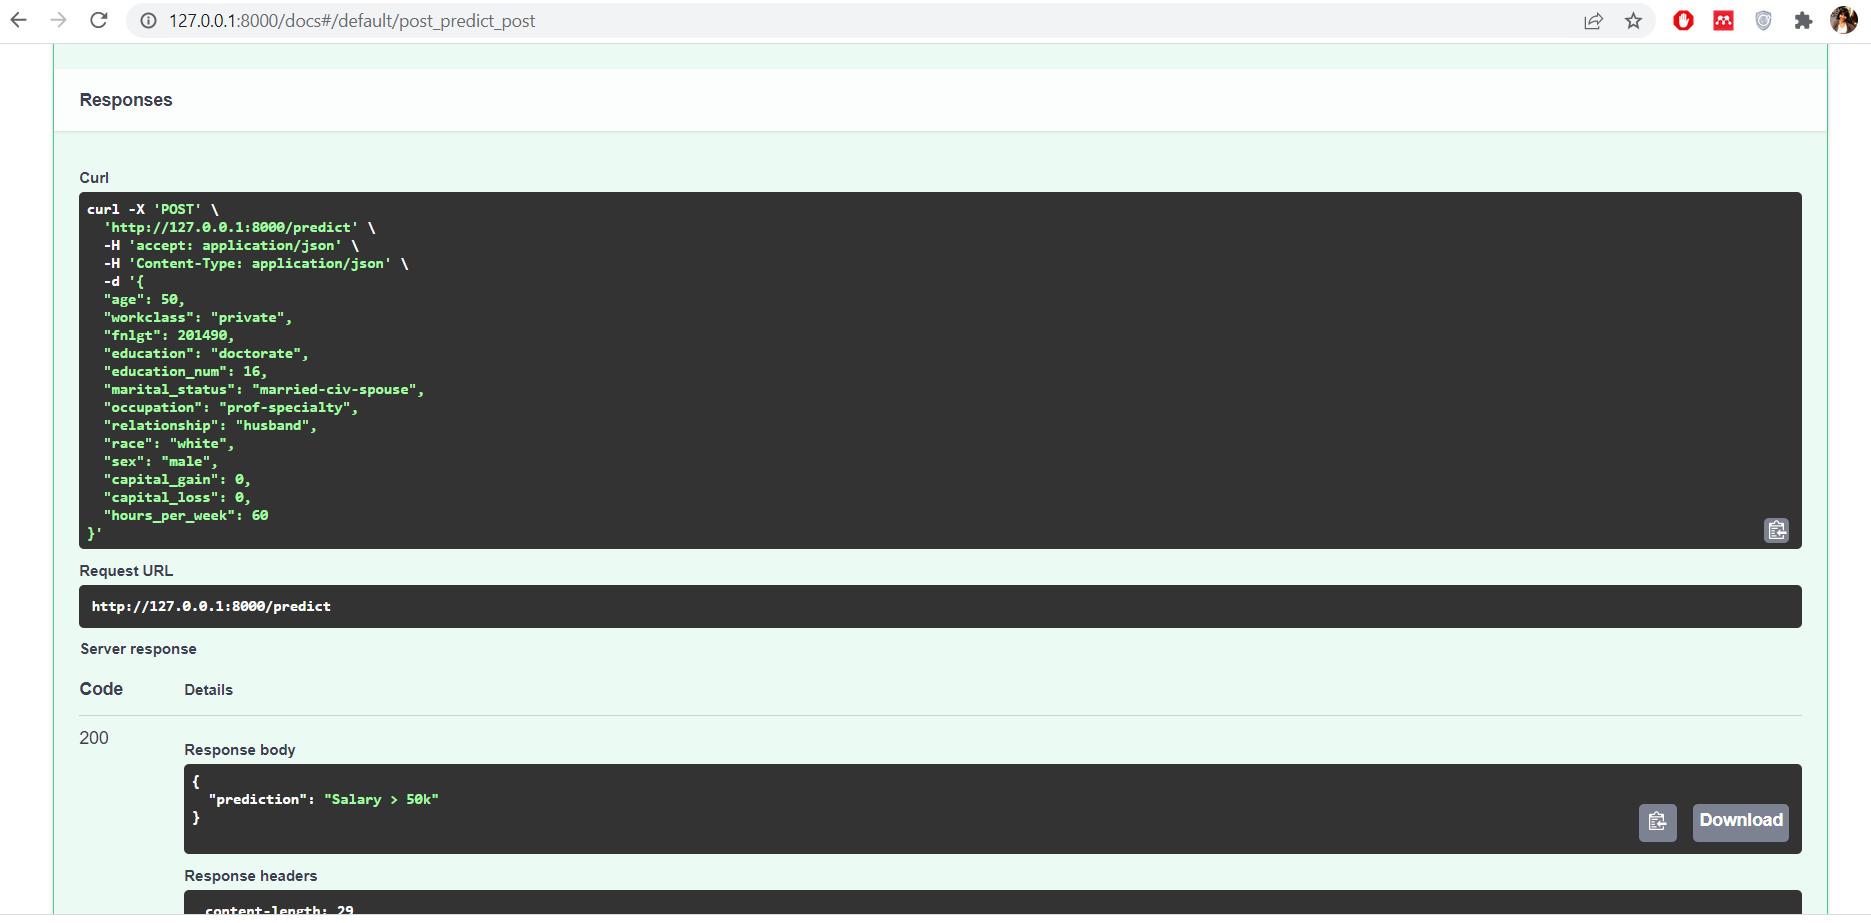
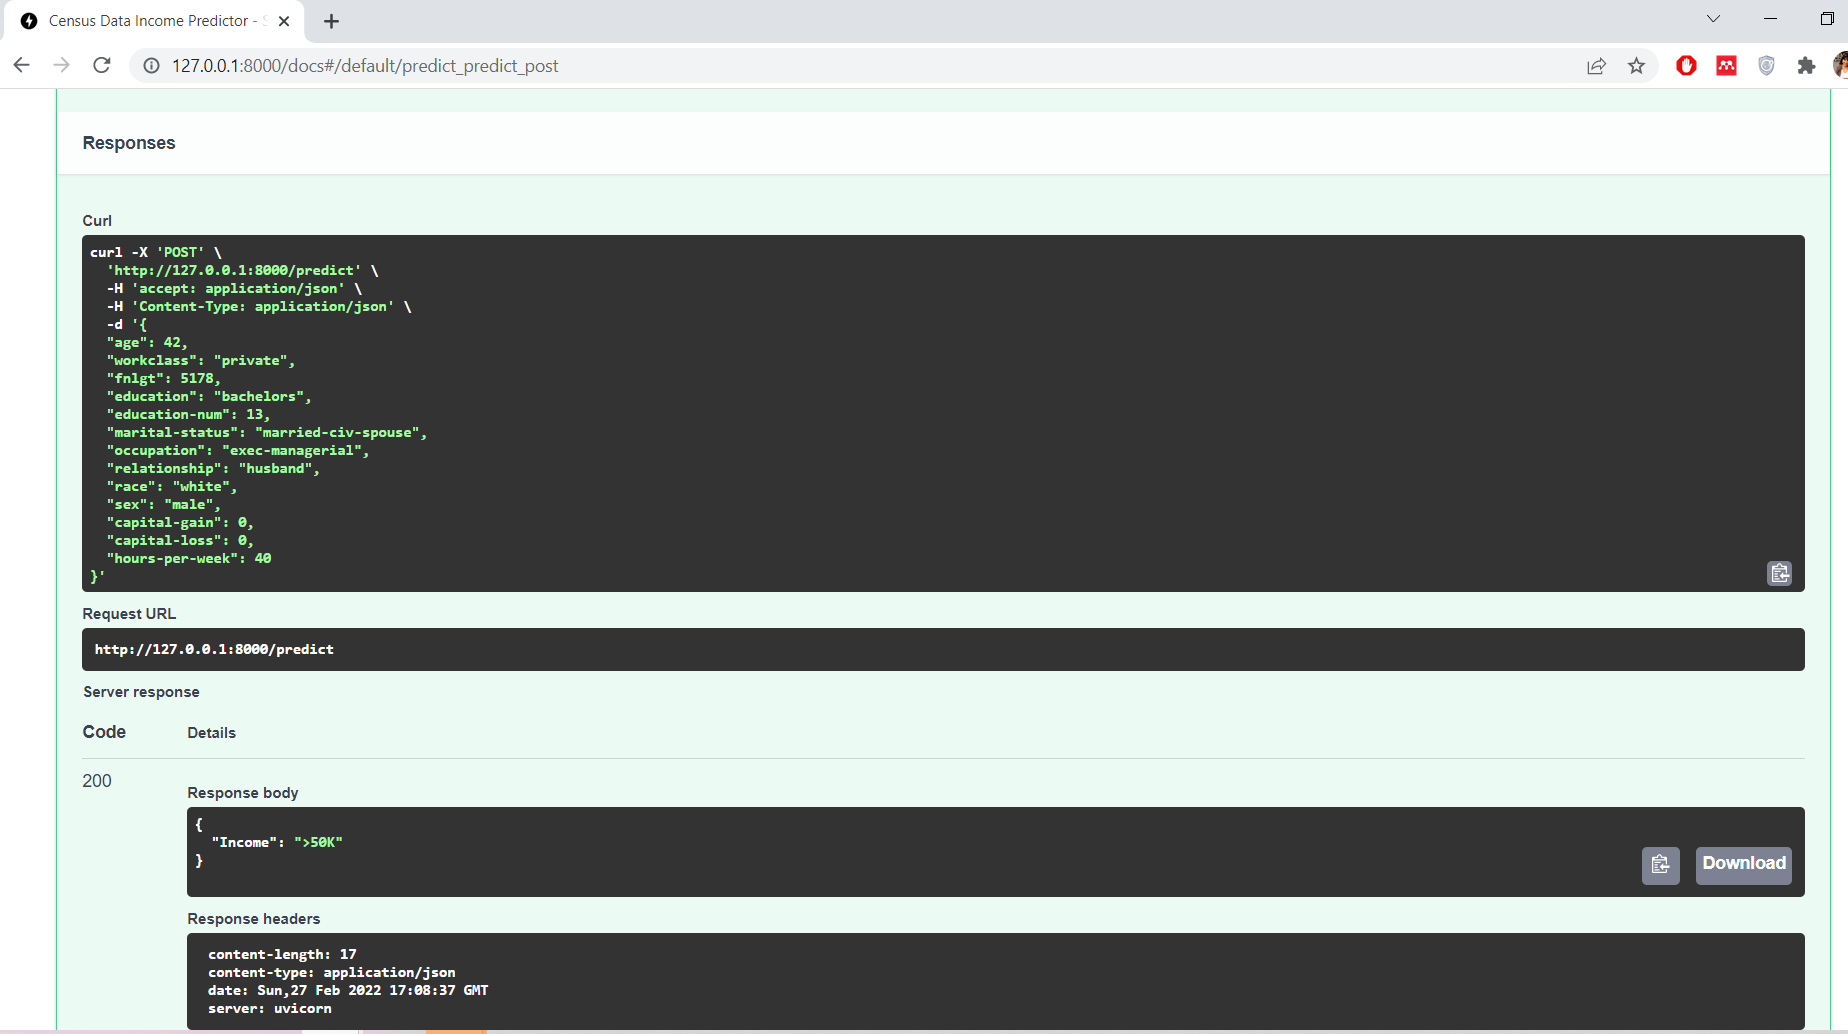
Add new image. Add alias.

diff --git a/main.py b/main.py
@@ -1,6 +1,6 @@
 # Put the code for your API here.
 from fastapi import FastAPI
-from pydantic import BaseModel
+from pydantic import BaseModel, Field
 
 from predict_income.ml.data import process_data
 from predict_income.ml.model import inference
@@ -11,6 +11,16 @@ import os
 
 CURRENT_DIRECTORY = os.path.abspath(os.path.dirname(__file__))
 
+CAT_FEATURES = [
+        "workclass",
+        "education",
+        "marital-status",
+        "occupation",
+        "relationship",
+        "race",
+        "sex",
+    ]
+
 if "DYNO" in os.environ and os.path.isdir(".dvc"):
     os.system("dvc config core.no_scm true")
     if os.system("dvc pull -f") != 0:
@@ -18,39 +28,26 @@ if "DYNO" in os.environ and os.path.isdir(".dvc"):
     os.system("rm -r .dvc .apt/usr/lib/dvc")
 
 
-class Input(BaseModel):
-    age: int
-    workclass: str
-    fnlgt: int
-    education: str
-    education_num: int
-    marital_status: str
-    occupation: str
-    relationship: str
-    race: str
-    sex: str
-    capital_gain: int
-    capital_loss: int
-    hours_per_week: int
+class CensusData(BaseModel):
+    age: int = Field(..., example=42)
+    workclass: str = Field(..., example="private")
+    fnlgt: int = Field(..., example=5178)
+    education: str = Field(..., example="bachelors")
+    education_num: int = Field(..., example=13, alias="education-num")
+    marital_status: str = Field(
+        ..., example="married-civ-spouse", alias="marital-status"
+    )
+    occupation: str = Field(..., example="exec-managerial")
+    relationship: str = Field(..., example="husband")
+    race: str = Field(..., example="white")
+    sex: str = Field(..., example="male")
+    capital_gain: int = Field(..., example=0, alias="capital-gain")
+    capital_loss: int = Field(..., example=0, alias="capital-loss")
+    hours_per_week: int = Field(..., example=40, alias="hours-per-week")
 
-    class Config:
-        schema_extra = {
-            "example": {
-                "age": 50,
-                "workclass": "private",
-                "fnlgt": 201490,
-                "education": "doctorate",
-                "education_num": 16,
-                "marital_status": "married-civ-spouse",
-                "occupation": "prof-specialty",
-                "relationship": "husband",
-                "race": "white",
-                "sex": "male",
-                "capital_gain": 0,
-                "capital_loss": 0,
-                "hours_per_week": 60
-            }
-        }
+
+class Income(BaseModel):
+    Income: str = Field(..., example=">50K")
 
 
 class Output(BaseModel):
@@ -85,48 +82,18 @@ async def get():
     return {"message": "Hey there!"}
 
 
-@app.post("/predict")
-async def post(data: Input):
-    cat_features = [
-        "workclass",
-        "education",
-        "marital-status",
-        "occupation",
-        "relationship",
-        "race",
-        "sex",
-    ]
-
-    input_data = pd.DataFrame(
-        [
-            {
-                "age": data.age,
-                "workclass": data.workclass,
-                "fnlgt": data.fnlgt,
-                "education": data.education,
-                "education-num": data.education_num,
-                "marital-status": data.marital_status,
-                "occupation": data.occupation,
-                "relationship": data.relationship,
-                "race": data.race,
-                "sex": data.sex,
-                "capital-gain": data.capital_gain,
-                "capital-loss": data.capital_loss,
-                "hours-per-week": data.hours_per_week,
-            }
-        ]
-    )
-
+@app.post("/predict", response_model=Income)
+def predict(payload: CensusData):
+    df = pd.DataFrame.from_dict([payload.dict(by_alias=True)])
     X, _, _, _ = process_data(
-        input_data,
-        categorical_features=cat_features,
+        df, categorical_features=CAT_FEATURES,
         training=False,
-        encoder=ENCODER,
-        lb=LB,
+        encoder=ENCODER
     )
+    pred = inference(MODEL, X)
 
-    prediction = inference(MODEL, X)
-    if prediction[0] == 1:
-        return {"prediction": "Salary > 50k"}
-    else:
-        return {"prediction": "Salary <= 50k"}
+    if pred == 1:
+        prediction = ">50K"
+    elif pred == 0:
+        prediction = "<=50K"
+    return {"Income": prediction}

diff --git a/test/test_api.py b/test/test_api.py
@@ -86,7 +86,7 @@ def test_post_predict_greater():
     with TestClient(app) as client:
         response = client.post("/predict", json=data)
     prediction = response.json()
-    assert prediction["prediction"] == "Salary > 50k"
+    assert prediction == {"Income": ">50K"}
 
 
 def test_post_predict_less():
@@ -115,4 +115,4 @@ def test_post_predict_less():
     with TestClient(app) as client:
         response = client.post("/predict", json=data)
     prediction = response.json()
-    assert prediction["prediction"] == "Salary <= 50k"
+    assert prediction == {"Income": "<=50K"}
